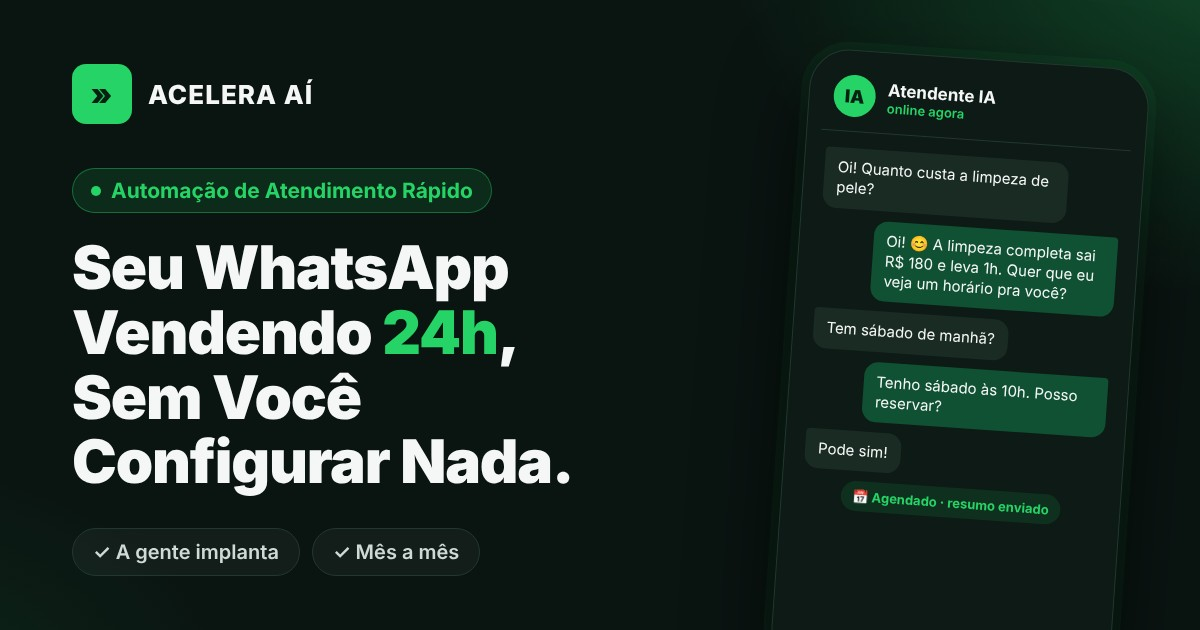
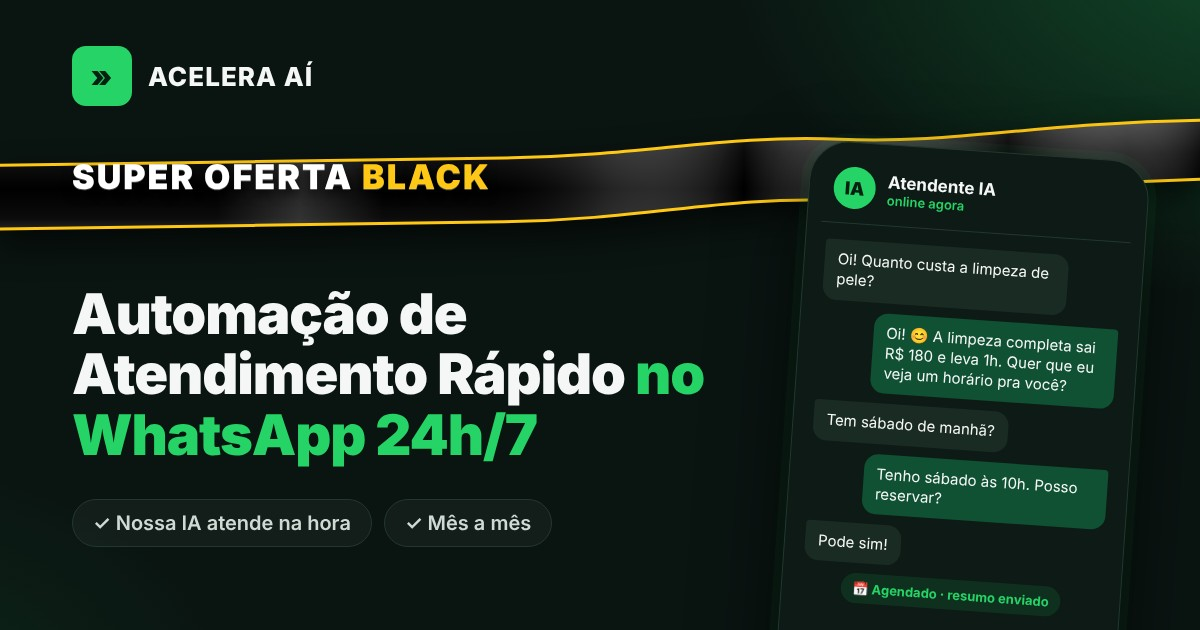
Atendimento: prévia do WhatsApp com a faixa Super Oferta Black (#33)
* Reunião: a gente acompanha ao vivo ou pela gravação e dá feedback se não fechar (sai 'prepara você')

Claude-Session: https://claude.ai/code/session_016VKVqmK93m83FSVTJNSMMG

* Captação com conteúdo e funil integrado; filtro só na conversa; reunião chega agendada e o cliente grava

Claude-Session: https://claude.ai/code/session_016VKVqmK93m83FSVTJNSMMG

* Funil: isca faz a 1ª seleção, WhatsApp o 2º filtro, depois página/checkout ou reunião

Claude-Session: https://claude.ai/code/session_016VKVqmK93m83FSVTJNSMMG

* Captação: a gente cria o criativo e o conteúdo (isca com funil na rede social)

Claude-Session: https://claude.ai/code/session_016VKVqmK93m83FSVTJNSMMG

* Captação sem repetir o filtro (já explicado no passo 2 e no card do curioso)

Claude-Session: https://claude.ai/code/session_016VKVqmK93m83FSVTJNSMMG

* Captação: "conteúdo isca" em vez de "criativo e conteúdo"

Claude-Session: https://claude.ai/code/session_016VKVqmK93m83FSVTJNSMMG

* Captação leva pra automação de atendimento no WhatsApp

Claude-Session: https://claude.ai/code/session_016VKVqmK93m83FSVTJNSMMG

* Captação sem palavra sozinha na última linha

Claude-Session: https://claude.ai/code/session_016VKVqmK93m83FSVTJNSMMG

* Captação: canais da internet, principalmente Instagram, também YouTube e Google

Claude-Session: https://claude.ai/code/session_016VKVqmK93m83FSVTJNSMMG

* Página da Automação de Atendimento Rápido (/atendimento)
[…]

diff --git a/atendimento/index.html b/atendimento/index.html
@@ -9,13 +9,13 @@
 <meta property="og:site_name" content="Acelera Aí">
 <meta property="og:locale" content="pt_BR">
 <meta property="og:url" content="https://eltonlongaray.github.io/acelera-ai/atendimento/">
-<meta property="og:title" content="Automação de Atendimento Rápido | Acelera Aí">
-<meta property="og:description" content="Seu WhatsApp vendendo 24h, sem você configurar nada. A gente implanta e acompanha com você. Mês a mês, sem fidelidade.">
-<meta property="og:image" content="https://eltonlongaray.github.io/acelera-ai/atendimento/img/previa.jpg?v=1">
+<meta property="og:title" content="Super Oferta Black | Automação de Atendimento Rápido no WhatsApp 24h/7">
+<meta property="og:description" content="Na Black Friday o atendimento lota: nossa IA atende todo mundo na mesma hora, sem perder tempo com gente curiosa. Mês a mês, sem fidelidade.">
+<meta property="og:image" content="https://eltonlongaray.github.io/acelera-ai/atendimento/img/previa.jpg?v=2">
 <meta property="og:image:type" content="image/jpeg">
 <meta property="og:image:width" content="1200">
 <meta property="og:image:height" content="630">
-<meta property="og:image:alt" content="Automação de Atendimento Rápido: seu WhatsApp vendendo 24h, sem você configurar nada">
+<meta property="og:image:alt" content="Super Oferta Black: Automação de Atendimento Rápido no WhatsApp 24h/7">
 <meta name="twitter:card" content="summary_large_image">
 <link rel="preconnect" href="https://fonts.googleapis.com">
 <link rel="preconnect" href="https://fonts.gstatic.com" crossorigin>
